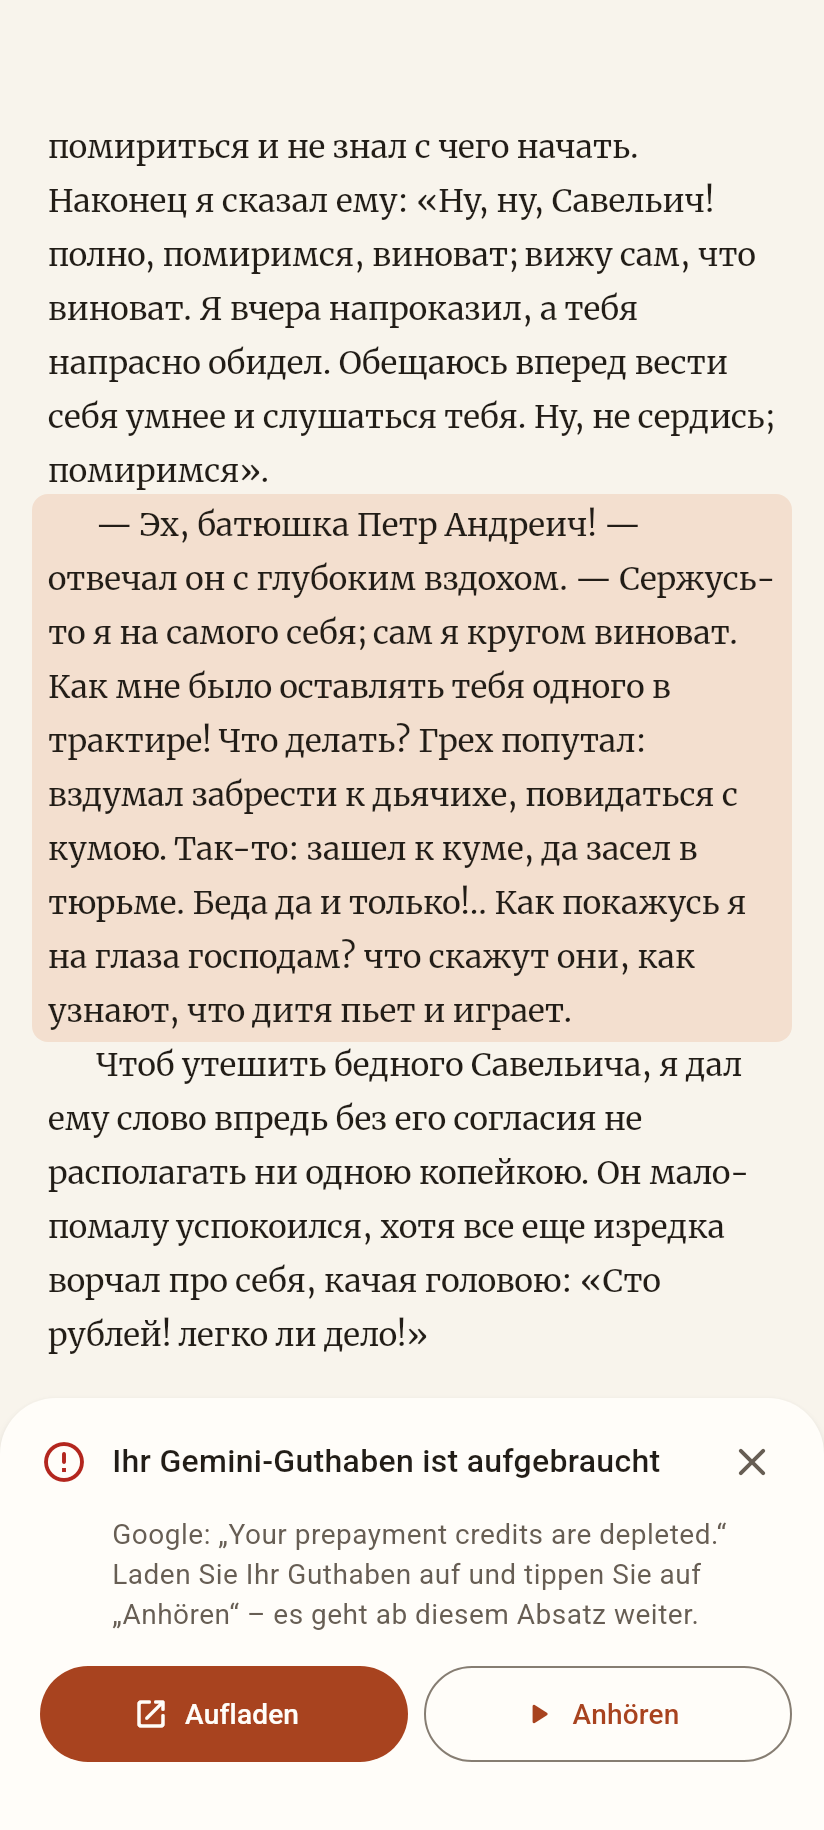
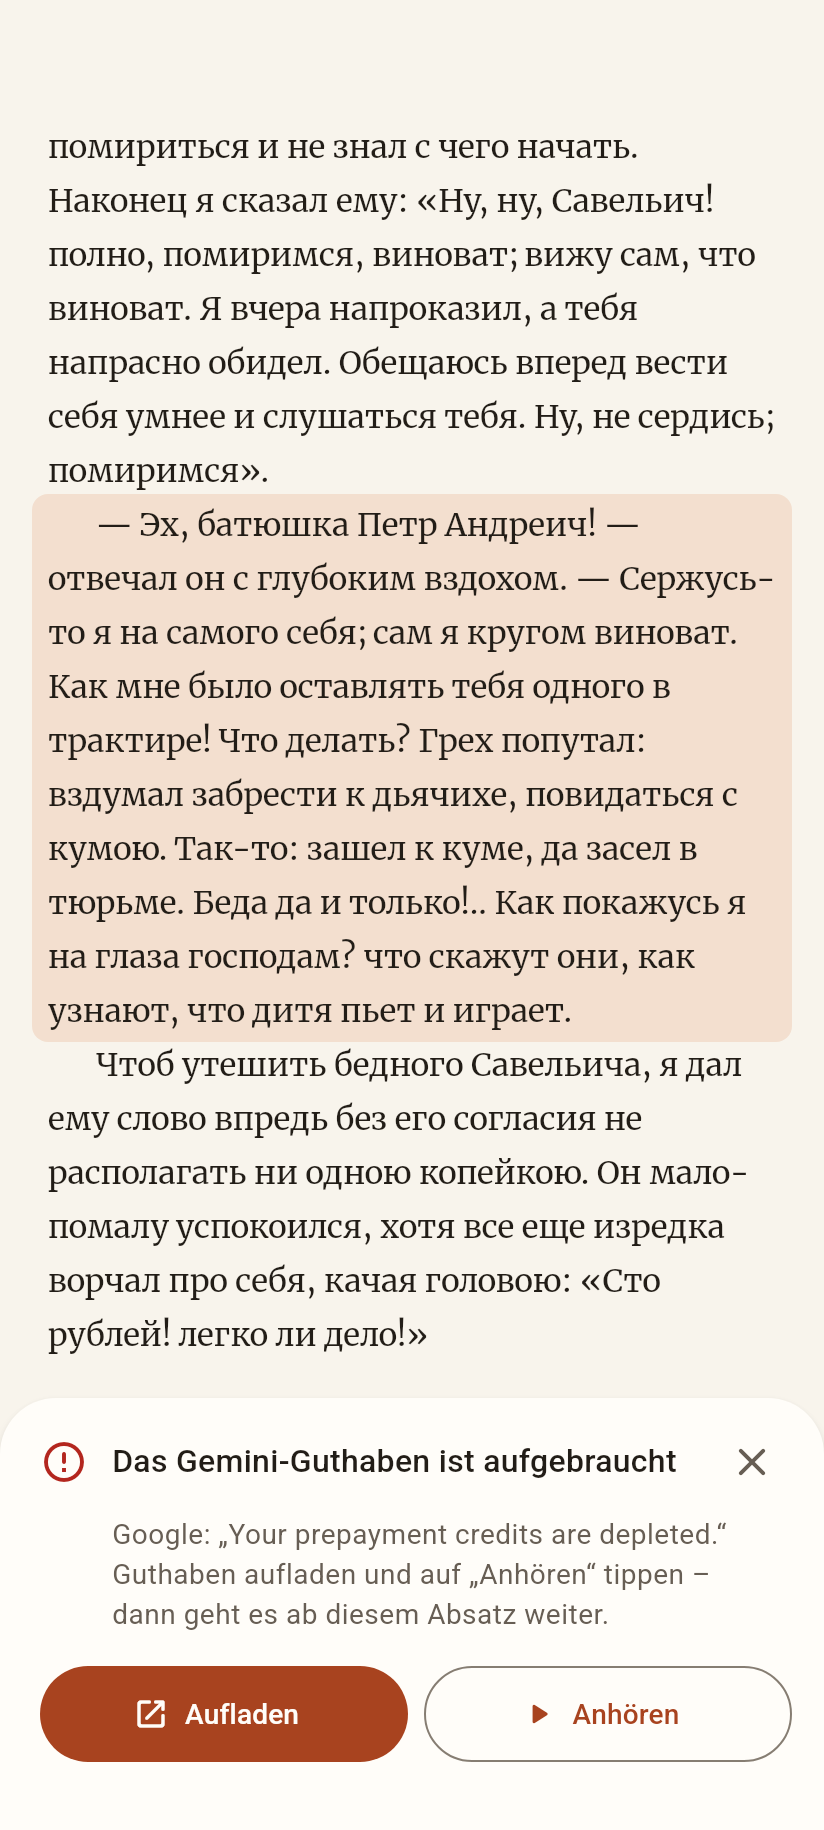
Interface translations proofread: English, Polish, German

Changed region(s): [[0.1517, 0.841, 0.8495, 0.9033], [0.1517, 0.7787, 0.8192, 0.8098]]

diff --git a/lib/screens/l10n/app_localizations_de.dart b/lib/screens/l10n/app_localizations_de.dart
@@ -35,7 +35,7 @@ class AppLocalizationsDe extends AppLocalizations {
 
   @override
   String get emptyBody =>
-      'Fügen Sie ein Buch als FB2 oder EPUB mit „+“ hinzu oder öffnen Sie eine Datei aus einer anderen App über „Öffnen mit“.';
+      'Mit „+“ ein Buch als FB2 oder EPUB hinzufügen – oder eine Datei aus einer anderen App über „Öffnen mit“ öffnen.';
 
   @override
   String get addFailedUnsupported => 'Dieses Format wird nicht unterstützt';
@@ -58,7 +58,7 @@ class AppLocalizationsDe extends AppLocalizations {
 
   @override
   String deleteBookBody(String title, String size) {
-    return '„$title“ und die Vertonung werden vom Telefon gelöscht. Frei werden $size.';
+    return '„$title“ und die Vertonung werden vom Telefon gelöscht. Das gibt $size frei.';
   }
 
   @override
@@ -66,7 +66,7 @@ class AppLocalizationsDe extends AppLocalizations {
 
   @override
   String deleteNarrationBody(String title, String size) {
-    return 'Der Ton von „$title“ wird gelöscht, frei werden $size. Zum erneuten Anhören muss er neu vertont und bezahlt werden.';
+    return 'Der Ton von „$title“ wird gelöscht und gibt $size frei. Zum erneuten Anhören muss er neu vertont und bezahlt werden.';
   }
 
   @override
@@ -80,13 +80,13 @@ class AppLocalizationsDe extends AppLocalizations {
 
   @override
   String get pickerNote =>
-      'Im Prototyp eine Nachbildung der Dateiauswahl des Systems.';
+      'Im Prototyp wird die Dateiauswahl des Systems nachgebildet.';
 
   @override
   String get back => 'Zurück';
 
   @override
-  String get contents => 'Inhalt';
+  String get contents => 'Inhaltsverzeichnis';
 
   @override
   String get textAppearance => 'Textdarstellung';
@@ -98,7 +98,7 @@ class AppLocalizationsDe extends AppLocalizations {
   String get readFromHere => 'Ab hier lesen';
 
   @override
-  String get toReadingPlace => 'Zur Vorlesestelle';
+  String get toReadingPlace => 'Zur aktuellen Stelle';
 
   @override
   String percent(double value) {
@@ -136,7 +136,7 @@ class AppLocalizationsDe extends AppLocalizations {
   String get theme => 'Design';
 
   @override
-  String get asSystem => 'Wie im System';
+  String get asSystem => 'Systemstandard';
 
   @override
   String get themeLight => 'Hell';
@@ -151,7 +151,7 @@ class AppLocalizationsDe extends AppLocalizations {
   String get preparing => 'Stimme wird vorbereitet…';
 
   @override
-  String get waiting => 'Warte auf Verbindung…';
+  String get waiting => 'Warten auf Verbindung…';
 
   @override
   String get close => 'Schließen';
@@ -199,14 +199,14 @@ class AppLocalizationsDe extends AppLocalizations {
   String get endOfBook => 'Das Buch ist zu Ende';
 
   @override
-  String get endOfBookBody => 'Zum Selberlesen schließen Sie das Bedienfeld.';
+  String get endOfBookBody => 'Um selbst zu lesen, das Bedienfeld schließen.';
 
   @override
-  String get error402Title => 'Ihr Gemini-Guthaben ist aufgebraucht';
+  String get error402Title => 'Das Gemini-Guthaben ist aufgebraucht';
 
   @override
   String get error402Body =>
-      'Laden Sie Ihr Guthaben auf und tippen Sie auf „Anhören“ – es geht ab diesem Absatz weiter.';
+      'Guthaben aufladen und auf „Anhören“ tippen – dann geht es ab diesem Absatz weiter.';
 
   @override
   String error404Title(String model) {
@@ -214,7 +214,7 @@ class AppLocalizationsDe extends AppLocalizations {
   }
 
   @override
-  String get error404Body => 'Wählen Sie ein anderes Modell.';
+  String get error404Body => 'Anderes Modell wählen.';
 
   @override
   String get errorKeyTitle =>
@@ -222,7 +222,7 @@ class AppLocalizationsDe extends AppLocalizations {
 
   @override
   String get errorKeyBody =>
-      'Prüfen Sie den Schlüssel in den Einstellungen und tippen Sie auf „Anhören“.';
+      'Schlüssel in den Einstellungen prüfen und auf „Anhören“ tippen.';
 
   @override
   String get changeKey => 'Schlüssel ändern';
@@ -313,7 +313,7 @@ class AppLocalizationsDe extends AppLocalizations {
         intl.NumberFormat.decimalPattern(localeName);
     final String totalString = totalNumberFormat.format(total);
 
-    return 'Vertone: $readyString von $totalString Min. fertig';
+    return 'Wird vertont: $readyString von $totalString Min. fertig';
   }
 
   @override
@@ -389,11 +389,11 @@ class AppLocalizationsDe extends AppLocalizations {
   String get change => 'Ändern';
 
   @override
-  String get whereKey => 'Schlüssel erhalten: aistudio.google.com';
+  String get whereKey => 'Schlüssel holen: aistudio.google.com';
 
   @override
   String get needKey =>
-      'Zum Anhören brauchen Sie einen Gemini-Schlüssel. Er wird einmal eingegeben und nur auf dem Telefon gespeichert.';
+      'Zum Anhören ist ein Gemini-Schlüssel nötig. Er wird einmal eingegeben und nur auf dem Telefon gespeichert.';
 
   @override
   String get pasteKey => 'Schlüssel einfügen';
@@ -437,7 +437,7 @@ class AppLocalizationsDe extends AppLocalizations {
     );
     final String bString = bNumberFormat.format(b);
 
-    return 'Ab 1. Januar 2027 verlangt Google das Doppelte: $aString und $bString pro Stunde. Ton des einen Modells zählt nicht für das andere: Nach einem Wechsel werden Bücher neu vertont.';
+    return 'Ab 1. Januar 2027 verlangt Google das Doppelte: $aString und $bString pro Stunde. Ton, der mit einem Modell vertont wurde, lässt sich beim anderen nicht wiederverwenden: Nach einem Wechsel werden Bücher neu vertont.';
   }
 
   @override
@@ -568,7 +568,7 @@ class AppLocalizationsDe extends AppLocalizations {
   String get voiceCharLively => 'lebhaft';
 
   @override
-  String get voiceCharKnowledgeable => 'kundig';
+  String get voiceCharKnowledgeable => 'sachkundig';
 
   @override
   String get voiceCharEven => 'gleichmäßig';

diff --git a/lib/screens/l10n/app_localizations_pl.dart b/lib/screens/l10n/app_localizations_pl.dart
@@ -19,7 +19,7 @@ class AppLocalizationsPl extends AppLocalizations {
   String get addBook => 'Dodaj książkę';
 
   @override
-  String get continueReading => 'Kontynuuj';
+  String get continueReading => 'Czytaj dalej';
 
   @override
   String get progressNew => 'nowa';
@@ -35,7 +35,7 @@ class AppLocalizationsPl extends AppLocalizations {
 
   @override
   String get emptyBody =>
-      'Dodaj książkę FB2 lub EPUB przyciskiem „+” albo otwórz plik z innej aplikacji przez „Otwórz za pomocą”.';
+      'Dodaj książkę w formacie FB2 lub EPUB przyciskiem „+” albo otwórz plik z innej aplikacji przez „Otwórz za pomocą”.';
 
   @override
   String get addFailedUnsupported => 'Ten format nie jest obsługiwany';
@@ -58,7 +58,7 @@ class AppLocalizationsPl extends AppLocalizations {
 
   @override
   String deleteBookBody(String title, String size) {
-    return '„$title” i jej nagranie zostaną usunięte z telefonu. Zwolni się $size.';
+    return 'Książka „$title” i jej nagranie zostaną usunięte z telefonu, co zwolni $size miejsca.';
   }
 
   @override
@@ -66,7 +66,7 @@ class AppLocalizationsPl extends AppLocalizations {
 
   @override
   String deleteNarrationBody(String title, String size) {
-    return 'Dźwięk „$title” zostanie usunięty, zwolni się $size. Aby posłuchać ponownie, trzeba go nagrać i opłacić od nowa.';
+    return 'Dźwięk „$title” zostanie usunięty, co zwolni $size miejsca. Aby posłuchać ponownie, trzeba go nagrać i opłacić od nowa.';
   }
 
   @override
@@ -98,7 +98,7 @@ class AppLocalizationsPl extends AppLocalizations {
   String get readFromHere => 'Czytaj stąd';
 
   @override
-  String get toReadingPlace => 'Wróć do lektora';
+  String get toReadingPlace => 'Do bieżącego miejsca';
 
   @override
   String percent(double value) {
@@ -202,7 +202,7 @@ class AppLocalizationsPl extends AppLocalizations {
   String get endOfBookBody => 'Aby czytać samodzielnie, zamknij panel.';
 
   @override
-  String get error402Title => 'Środki na koncie Gemini się skończyły';
+  String get error402Title => 'Na koncie Gemini zabrakło środków';
 
   @override
   String get error402Body =>
@@ -377,7 +377,7 @@ class AppLocalizationsPl extends AppLocalizations {
 
   @override
   String probeNote(String phrase) {
-    return 'Próbka czyta to samo zdanie w języku książki: „$phrase” Kosztuje mniej niż cent i jest płatna raz.';
+    return 'Próbka czyta to samo zdanie w języku książki: „$phrase” Kosztuje mniej niż cent, a płaci się za nią tylko raz.';
   }
 
   @override
@@ -438,7 +438,7 @@ class AppLocalizationsPl extends AppLocalizations {
     );
     final String bString = bNumberFormat.format(b);
 
-    return 'Od 1 stycznia 2027 roku Google pobiera dwa razy więcej: $aString i $bString za godzinę. Dźwięk jednego modelu nie liczy się dla drugiego: po zmianie książki są nagrywane od nowa.';
+    return 'Od 1 stycznia 2027 roku Google będzie pobierać dwa razy więcej: $aString i $bString za godzinę. Dźwięk z jednego modelu nie zastępuje dźwięku z drugiego: po zmianie książki są nagrywane od nowa.';
   }
 
   @override

diff --git a/lib/screens/l10n/app_localizations_en.dart b/lib/screens/l10n/app_localizations_en.dart
@@ -98,7 +98,7 @@ class AppLocalizationsEn extends AppLocalizations {
   String get readFromHere => 'Read from here';
 
   @override
-  String get toReadingPlace => 'Back to narration';
+  String get toReadingPlace => 'To current spot';
 
   @override
   String percent(double value) {
@@ -196,10 +196,10 @@ class AppLocalizationsEn extends AppLocalizations {
   }
 
   @override
-  String get endOfBook => 'The book has ended';
+  String get endOfBook => 'End of the book';
 
   @override
-  String get endOfBookBody => 'To read on your own, close the panel.';
+  String get endOfBookBody => 'To read it yourself, close the panel.';
 
   @override
   String get error402Title => 'Your Gemini balance is empty';
@@ -344,7 +344,7 @@ class AppLocalizationsEn extends AppLocalizations {
   String get voiceForApp => 'for all books';
 
   @override
-  String get voiceAsSettings => 'As in settings';
+  String get voiceAsSettings => 'Same as in Settings';
 
   @override
   String voiceNow(String name) {
@@ -374,7 +374,7 @@ class AppLocalizationsEn extends AppLocalizations {
 
   @override
   String probeNote(String phrase) {
-    return 'The sample reads the same phrase in the book’s language: “$phrase” It costs less than a cent and is paid once.';
+    return 'The sample reads the same phrase in the book’s language: “$phrase” It costs less than a cent, and you pay for it only once.';
   }
 
   @override
@@ -435,7 +435,7 @@ class AppLocalizationsEn extends AppLocalizations {
     );
     final String bString = bNumberFormat.format(b);
 
-    return 'From 1 January 2027 Google charges twice as much: $aString and $bString per hour. Audio of one model does not count for the other: after switching, books are narrated anew.';
+    return 'Starting January 1, 2027, Google charges twice as much: $aString and $bString per hour. Audio narrated with one model can’t be reused with the other, so after switching, books are narrated again.';
   }
 
   @override

diff --git a/docs/prototype/README.md b/docs/prototype/README.md
@@ -128,7 +128,8 @@ EPUB с защитой.
 генерации кода», А§8). Множественные формы — ICU plural («1 минута / 2 минуты / 5 минут», польские «minuta / minuty /
 minut»); деньги, проценты, мегабайты и скорость — форматом по локали с неразрывным пробелом. Системные подписи
 Material — делегаты `material_ui`. Тексты Google не переводятся. Названия книг, авторов и глав — текст книги, не
-интерфейса. Переводы en, pl, de сделаны исполнителем и приняты как есть (решение владельца 2026-11-14).
+интерфейса. Переводы en, pl, de сделаны исполнителем и приняты как есть (решение владельца 2026-11-14), затем
+вычитаны редактором в тот же день: правки точечные, термины глоссария ниже — после вычитки.
 
 Фраза «Пробы» и стиль чтения зависят от языка **книги** (`lib/tts/book_language.dart`, FR-T7): ru, en, pl, de,
 для прочих — английские; стиль без рода. Для голоса приложения из настроек (книги нет) фраза — на языке интерфейса.
@@ -142,7 +143,7 @@ Material — делегаты `material_ui`. Тексты Google не перев
 | Проба | Sample | Próbka | Hörprobe |
 | Озвучка | Narration | Nagranie / nagrania | Vertonung |
 | озвучена (глава) | narrated | nagrany | vertont |
-| Оглавление | Contents | Spis treści | Inhalt |
+| Оглавление | Contents | Spis treści | Inhaltsverzeichnis |
 | Голос | Voice | Głos | Stimme |
 | Глава | Chapter | Rozdział | Kapitel |
 | Скачать главу | Download chapter | Pobierz rozdział | Kapitel herunterladen |
@@ -150,10 +151,11 @@ Material — делегаты `material_ui`. Тексты Google не перев
 | Таймер сна | Sleep timer | Wyłącznik czasowy | Schlaftimer |
 | Скорость | Speed | Prędkość | Tempo |
 | Читать отсюда | Read from here | Czytaj stąd | Ab hier lesen |
-| К месту чтения | Back to narration | Wróć do lektora | Zur Vorlesestelle |
+| Продолжить (карточка книги) | Continue | Czytaj dalej | Weiterlesen |
+| К месту чтения | To current spot | Do bieżącego miejsca | Zur aktuellen Stelle |
 | Ключ Gemini | Gemini key | Klucz Gemini | Gemini-Schlüssel |
 | Потрачено | Spent | Wydano | Ausgegeben |
-| Как в системе | System default | Jak w systemie | Wie im System |
+| Как в системе | System default | Jak w systemie | Systemstandard |
 
 ## Палитра
 
@@ -273,8 +275,10 @@ Material — делегаты `material_ui`. Тексты Google не перев
     помещается; «Проба» становится кнопкой-значком 48 × 48 с подсказкой — иначе имена голосов рвались посреди слова.
 18. **Roboto встроен**; `applicationId` из `flutter create` — `io.github.slawa19.audiobook_reader`.
 19. Иконки — встроенный набор Material Icons, варианты `_rounded` (Material Symbols требуют стороннего пакета).
-20. **Переводы** en, pl, de и глоссарий — исполнителя, приняты как есть: «Вид текста» = «Text appearance / Wygląd
-    tekstu / Textdarstellung», «К месту чтения» = «Back to narration / Wróć do lektora / Zur Vorlesestelle».
+20. **Переводы** en, pl, de и глоссарий — исполнителя, приняты как есть и вычитаны редактором 2026-11-14: «Вид
+    текста» = «Text appearance / Wygląd tekstu / Textdarstellung», «К месту чтения» = «To current spot / Do bieżącego
+    miejsca / Zur aktuellen Stelle» (было «Back to narration / Wróć do lektora / Zur Vorlesestelle»: правило о месте
+    в тексте, а не об озвучке и не о человеке-лекторе).
 21. **Стиль чтения без рода** («в манере профессиональной аудиокниги») — на слух не проверен.
 22. **Место старта «Слушать»** — правило владельца 2026-11-14 (FR-P3, А§5), заменившее прежнее «с первого видимого
     места, включая хвост абзаца» (находка №11). Там, где правило молчит: «Слушать» из остановки (панель ошибки) — с
